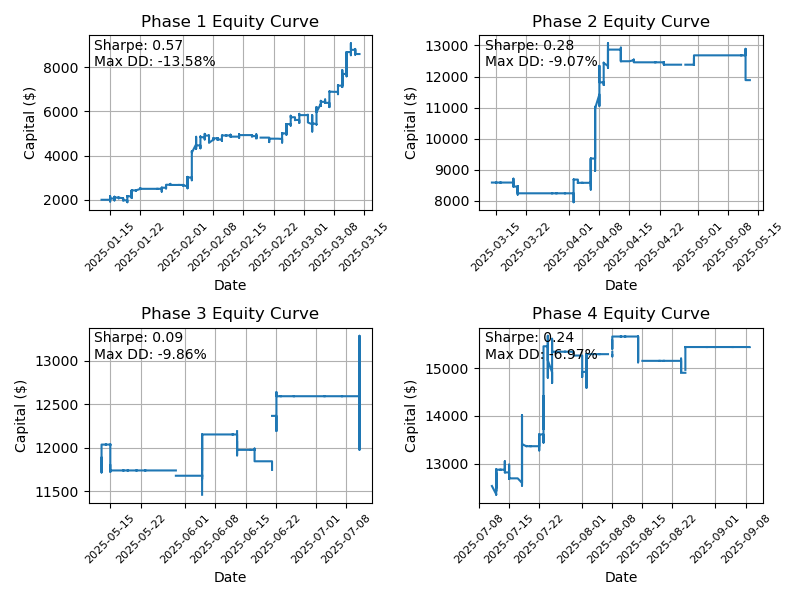
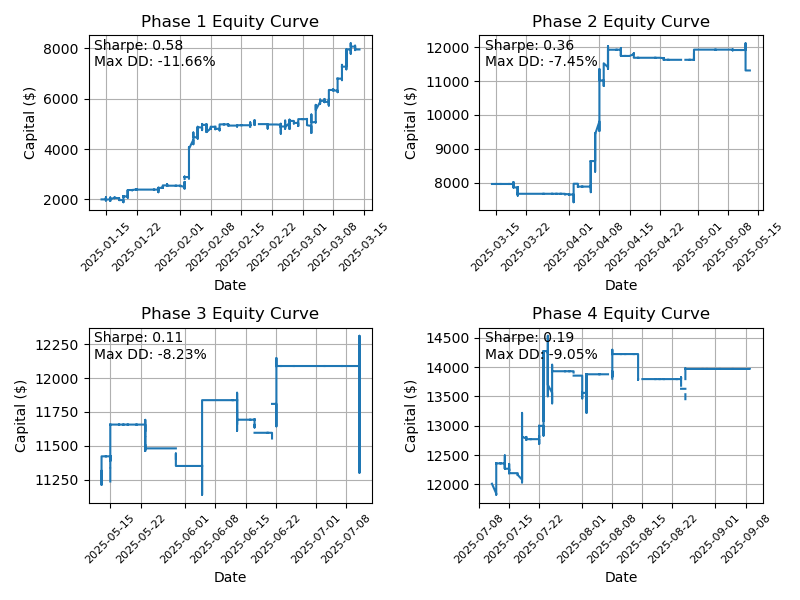
refactor: instead of using the same parameters as the model params for Feature Importance, it instead uses a smaller parameter to quickly train with lower estimators, depths, etc.. which with backtesting proved to be time efficient and better in overall gains

diff --git a/utils.py b/utils.py
@@ -158,7 +158,7 @@ def calculate_feature_importance(
     save_importance: bool = False,
     visualize_importance: bool = False,
     K: int = 48,
-    max_bin: int = 512
+    max_bin: int = 256
 ):
     """
     GPU-accelerated walk-forward feature importance (XGBoost total_gain).
@@ -171,10 +171,13 @@ def calculate_feature_importance(
     # Ensure GPU params
     params = dict(model_params)  # shallow copy
     params.update({
-        'device': 'cuda',
-        'max_bin': max_bin,
-        # make sure importance type uses gain internally
-        "eval_metric": "rmse"
+        "n_estimators": 50,
+        "max_depth": 4,
+        "subsample": 0.5,
+        "colsample_bytree": 0.5,
+        "max_bin": max_bin,
+        "device": "cuda",
+        "tree_method": "hist"
     })
 
     n = len(df)

diff --git a/TradingStrategy_JointOptimization.py b/TradingStrategy_JointOptimization.py
@@ -188,7 +188,7 @@ def run_strategy(df_window, T, H, feature_cols, target_cols):
 
     # 5) Build & fit model (ensure GPU params are unified everywhere)
     H['device'] = 'cuda'
-    H['max_bin'] = 512   # pick one value and keep it the same across all trainings
+    H['max_bin'] = 256   # pick one value and keep it the same across all trainings
 
     model = xgb.XGBRegressor(**H)
     model.fit(X_initial, y_initial)
